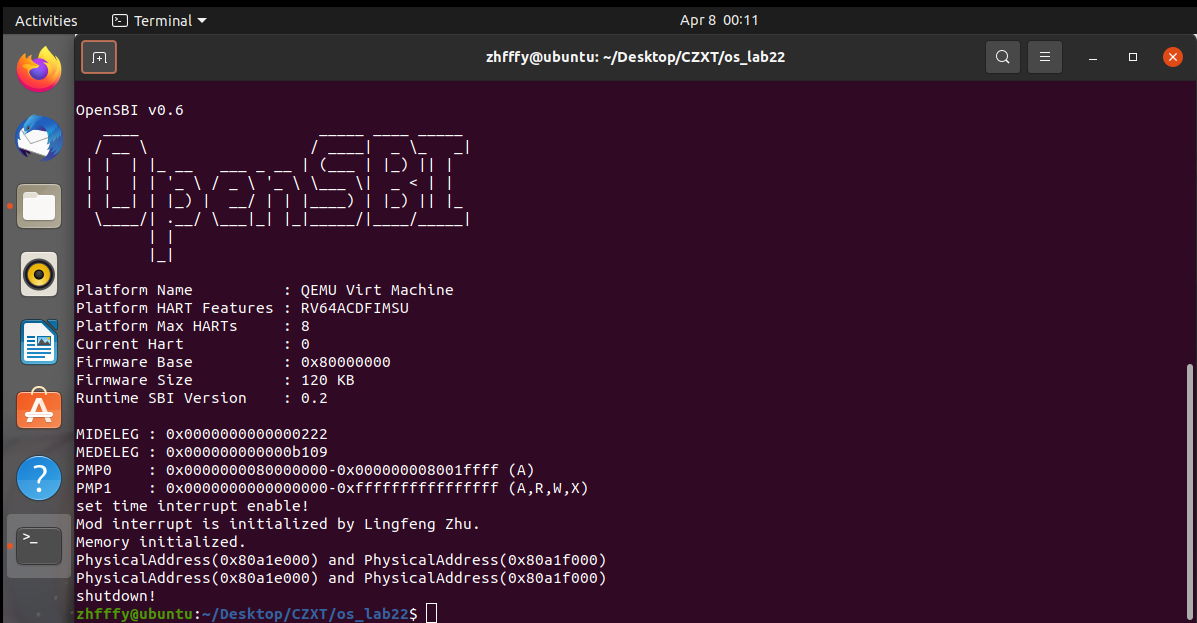
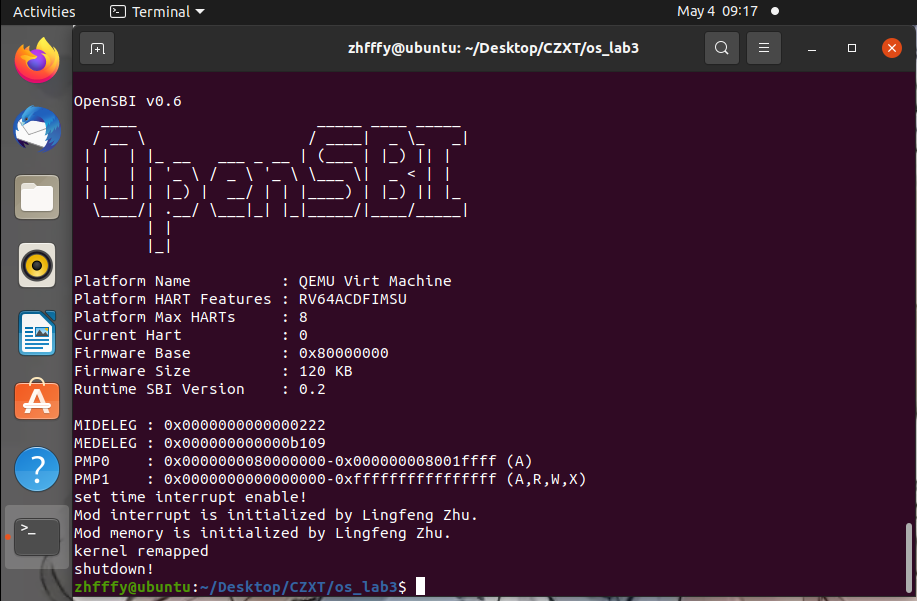
lab 03

Changed region(s): [[0.0, 0.0, 1.0, 1.0], [0.4885, 0.3295, 0.5191, 0.3594], [0.458, 0.3594, 0.4885, 0.3894]]

diff --git a/README.md b/README.md
@@ -20,3 +20,9 @@
 动态内存分配  参见分支SCUOS_Lab2_1
 
 物理内存管理  参见分支SCUOS_Lab2_2
+
+
+
+实验4 页表实验
+
+参见分支SCUOS_Lab3
